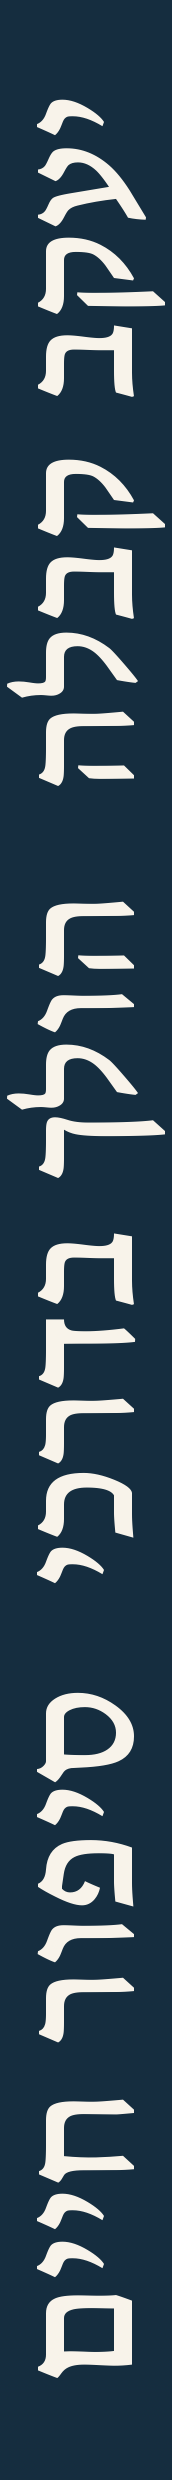
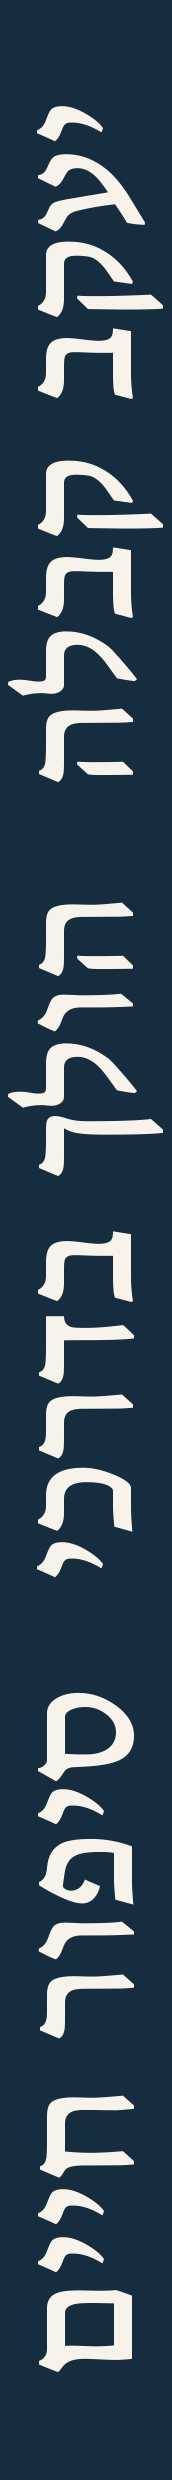
Spine viewer: reduce spine font (-1px soft, -2px hard); cache-bust v=4

diff --git a/index.html b/index.html
@@ -629,7 +629,7 @@
     <button id="spineClose" onclick="closeSpine()" title="סגור" aria-label="סגור">
       <svg viewBox="0 0 24 24" width="18" height="18"><path d="M6 6l12 12M18 6 6 18"/></svg>
     </button>
-    <div id="spineStage"><img id="spineImg" src="images/spines/woodfree180gsm_hardcover.png?v=3" alt="שדרת הספר"/></div>
+    <div id="spineStage"><img id="spineImg" src="images/spines/woodfree180gsm_hardcover.png?v=4" alt="שדרת הספר"/></div>
     <div id="spineControls">
       <div id="spineTypeSel" class="spine-seg">
         <button type="button" class="spine-seg-btn on" data-type="hardcover" onclick="setSpineType('hardcover')">כריכה קשה</button>
@@ -1539,7 +1539,7 @@ function renderSpine() {
   var paper = document.getElementById('spinePaperSel').value;
   var info = SPINE_PAPER_MM[paper];
   var img = document.getElementById('spineImg');
-  img.src = 'images/spines/' + paper + '_' + spineType + '.png?v=3';
+  img.src = 'images/spines/' + paper + '_' + spineType + '.png?v=4';
   var typeHeb = spineType === 'hardcover' ? 'כריכה קשה' : 'כריכה רכה';
   var mm = info[spineType];
   document.getElementById('spineCaption').textContent =
